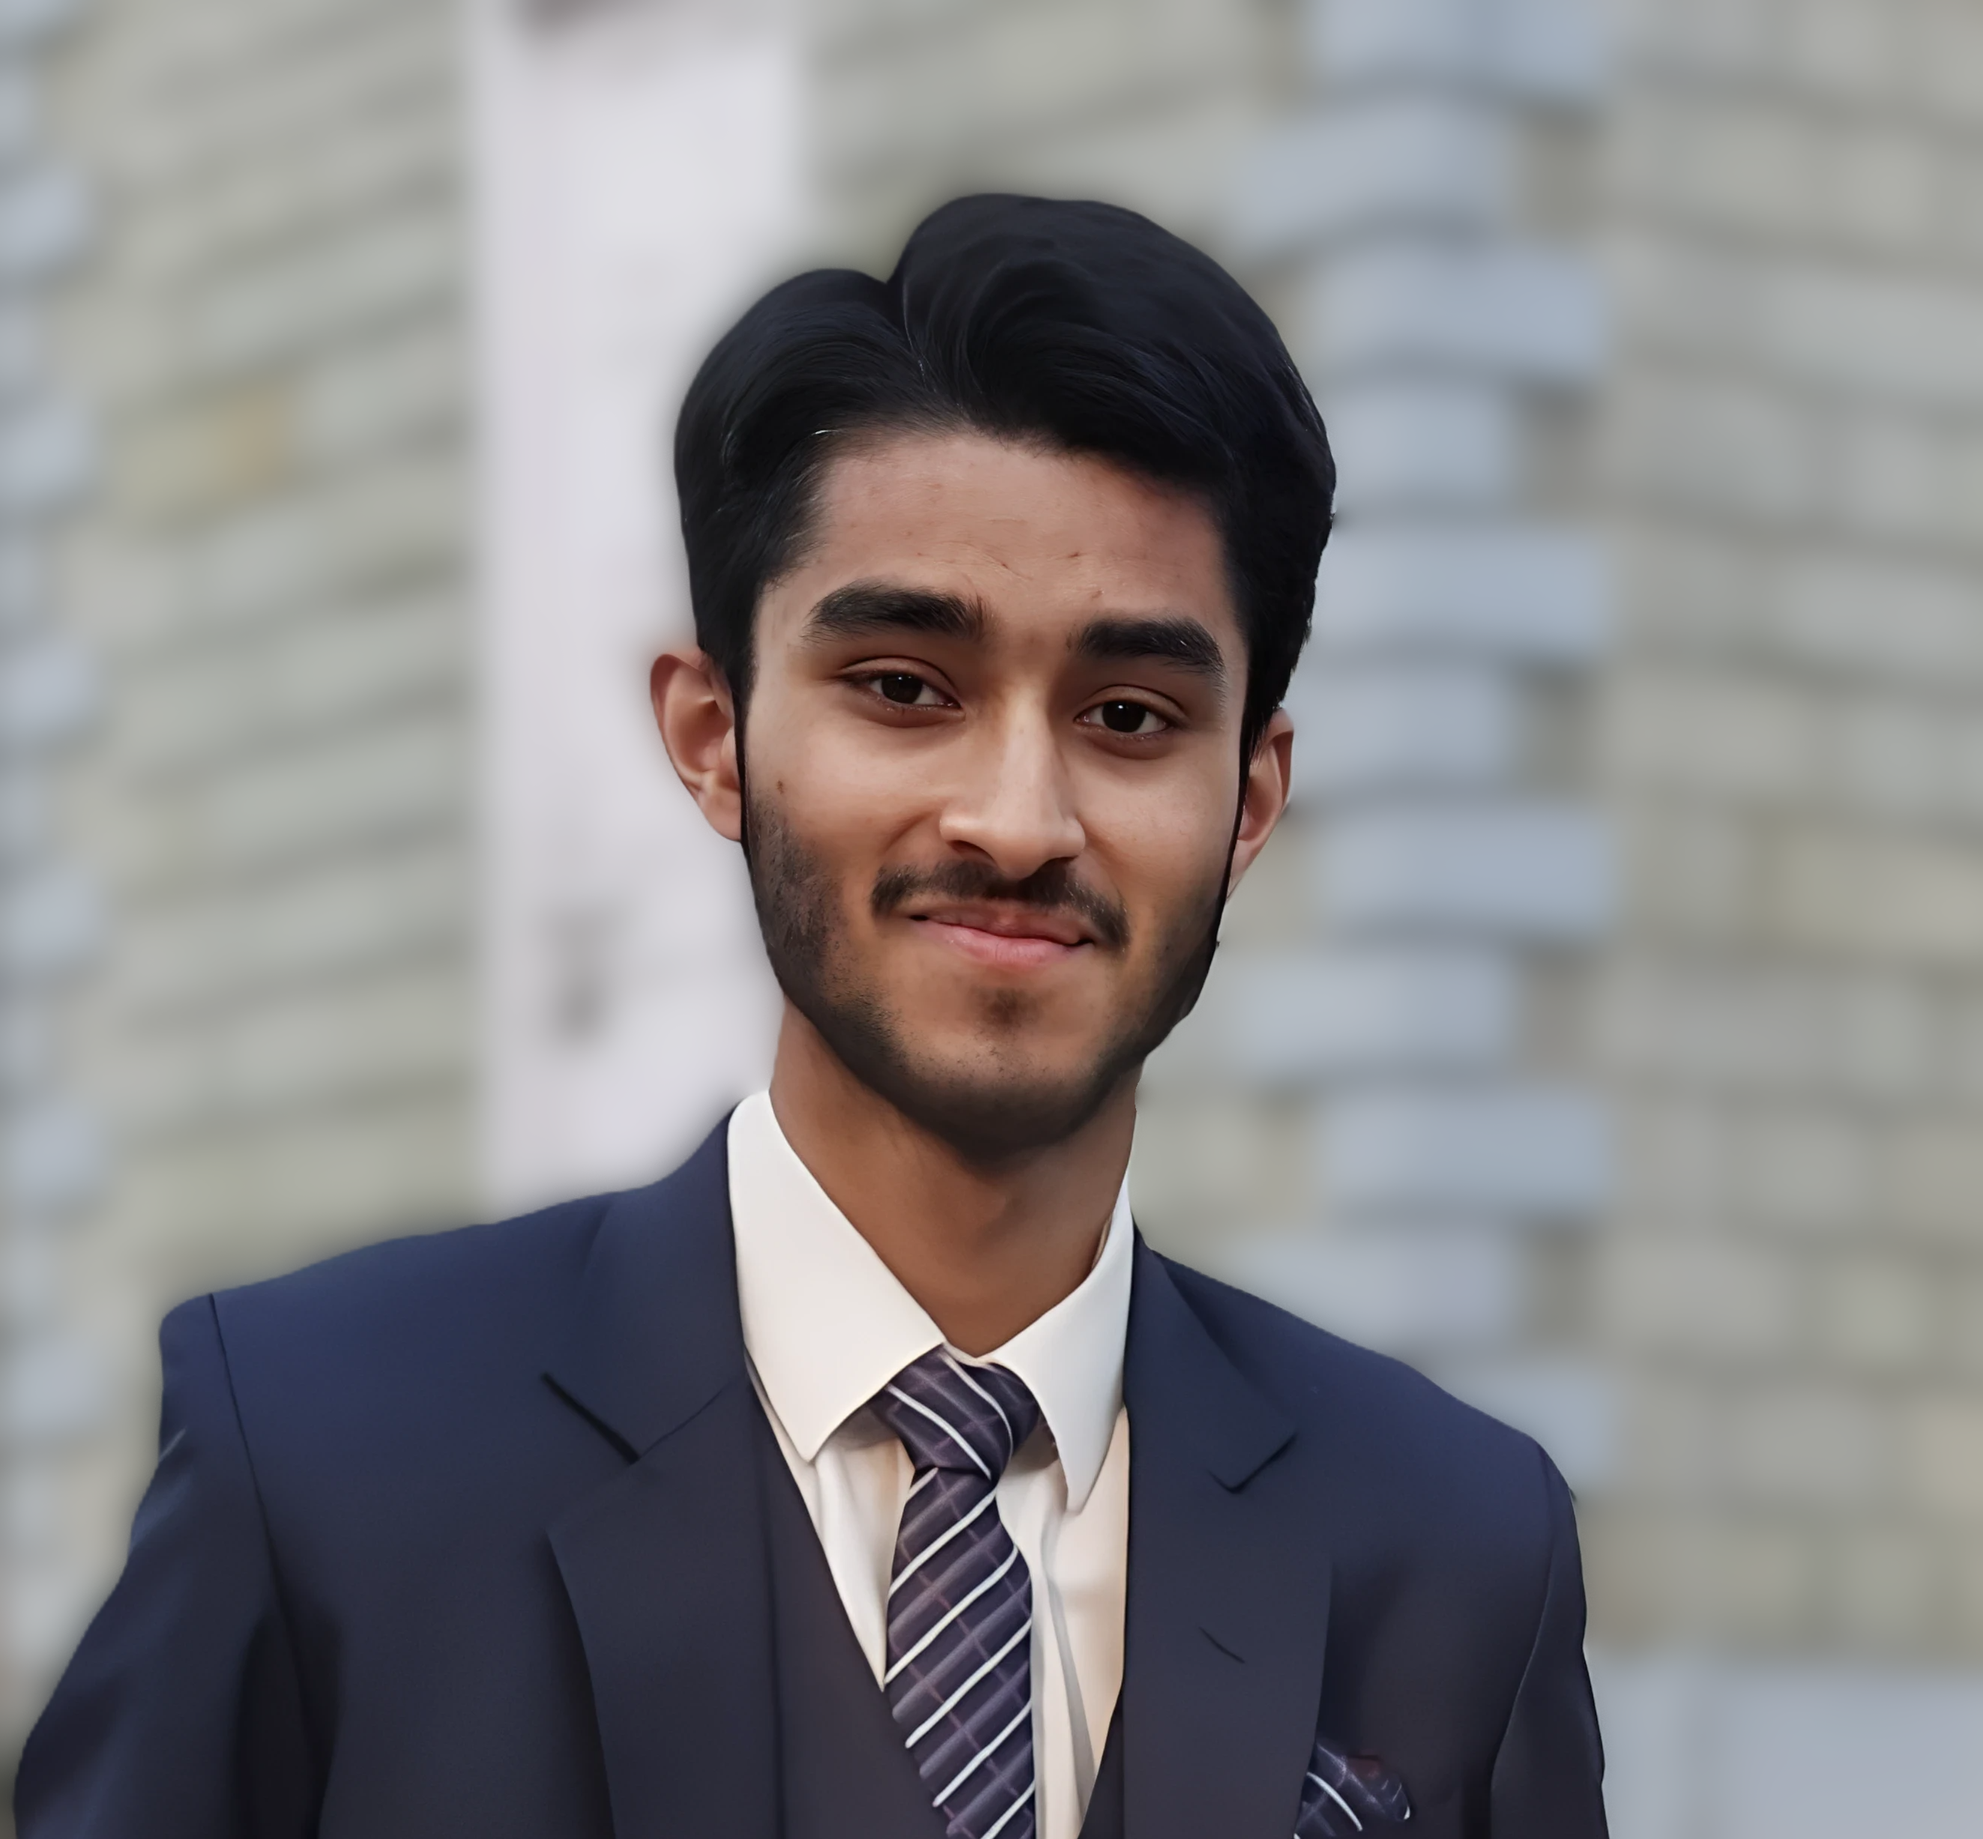
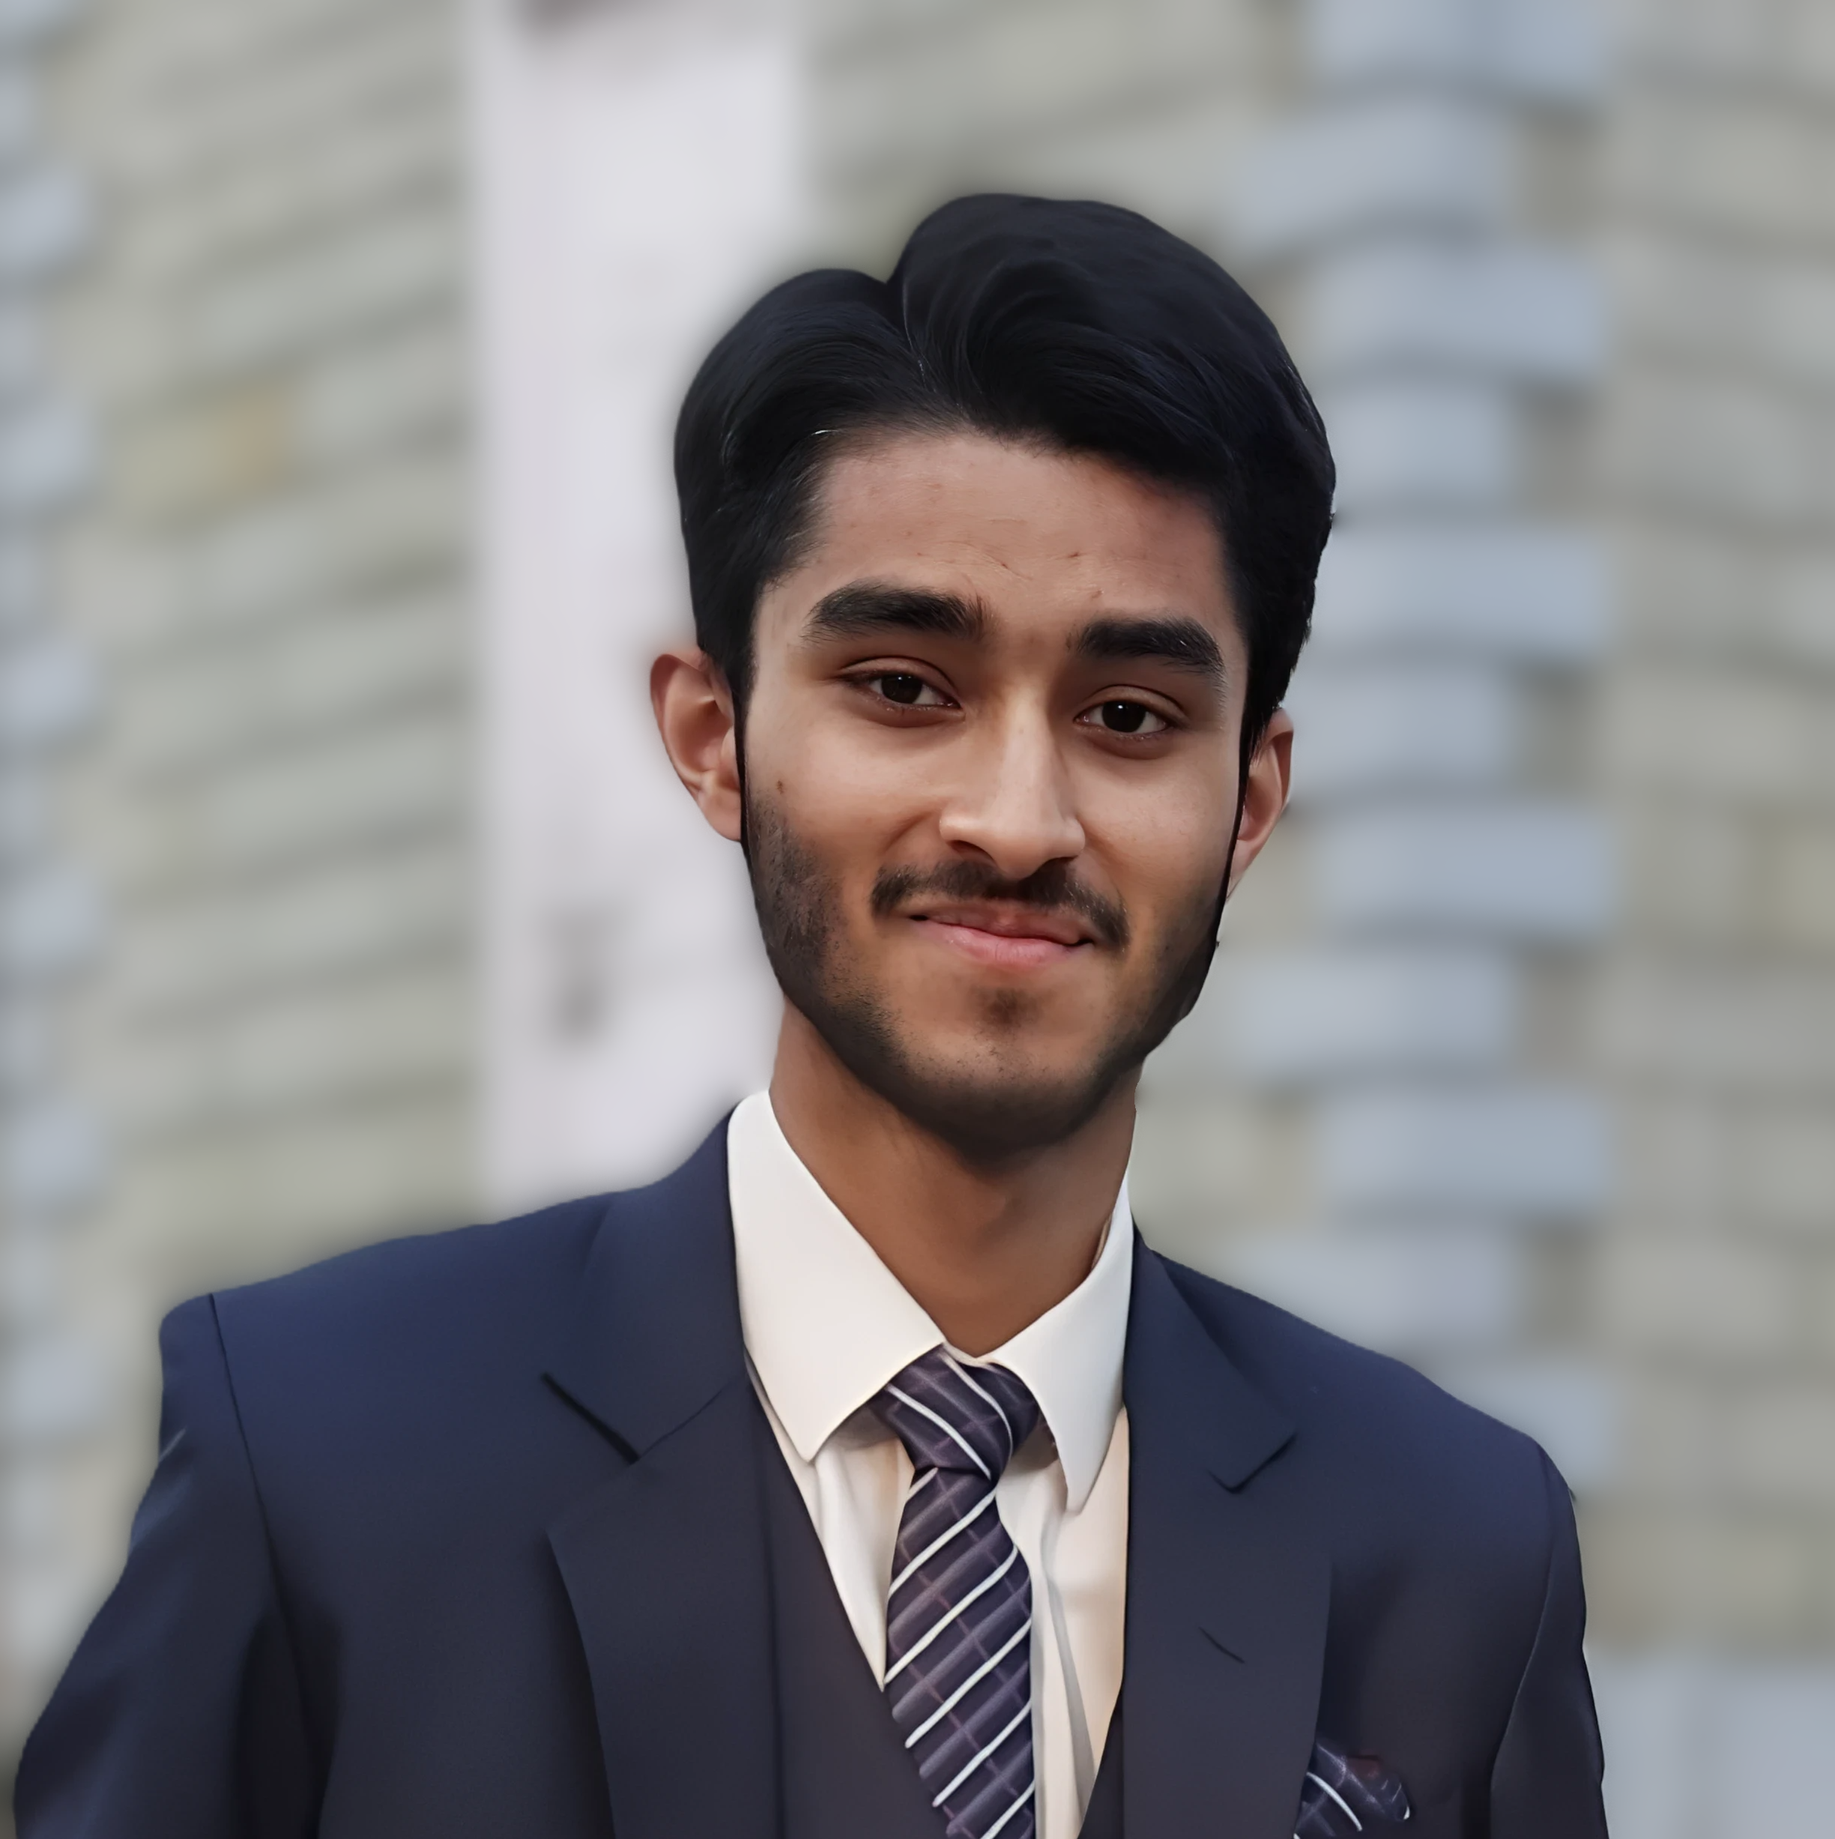
updated the dimensions of profile photo

diff --git a/style.css b/style.css
@@ -11,19 +11,20 @@
 }
 #my-image{
    width: 250px;
+   height: 250px;
    height: auto;
    border-radius: 50%;
    border: 5px solid white;
 }
 @media (max-width: 764px){
    #my-image{
-      width: 200px;
-      height: auto;
+      width: 220px;
+      height: 220px;
    }
    @media (max-width: 576px) {
       #my-image{
-         width: 150px;
-         height: auto;
+         width: 180px;
+         height: 180px;
       }
    }
 }
